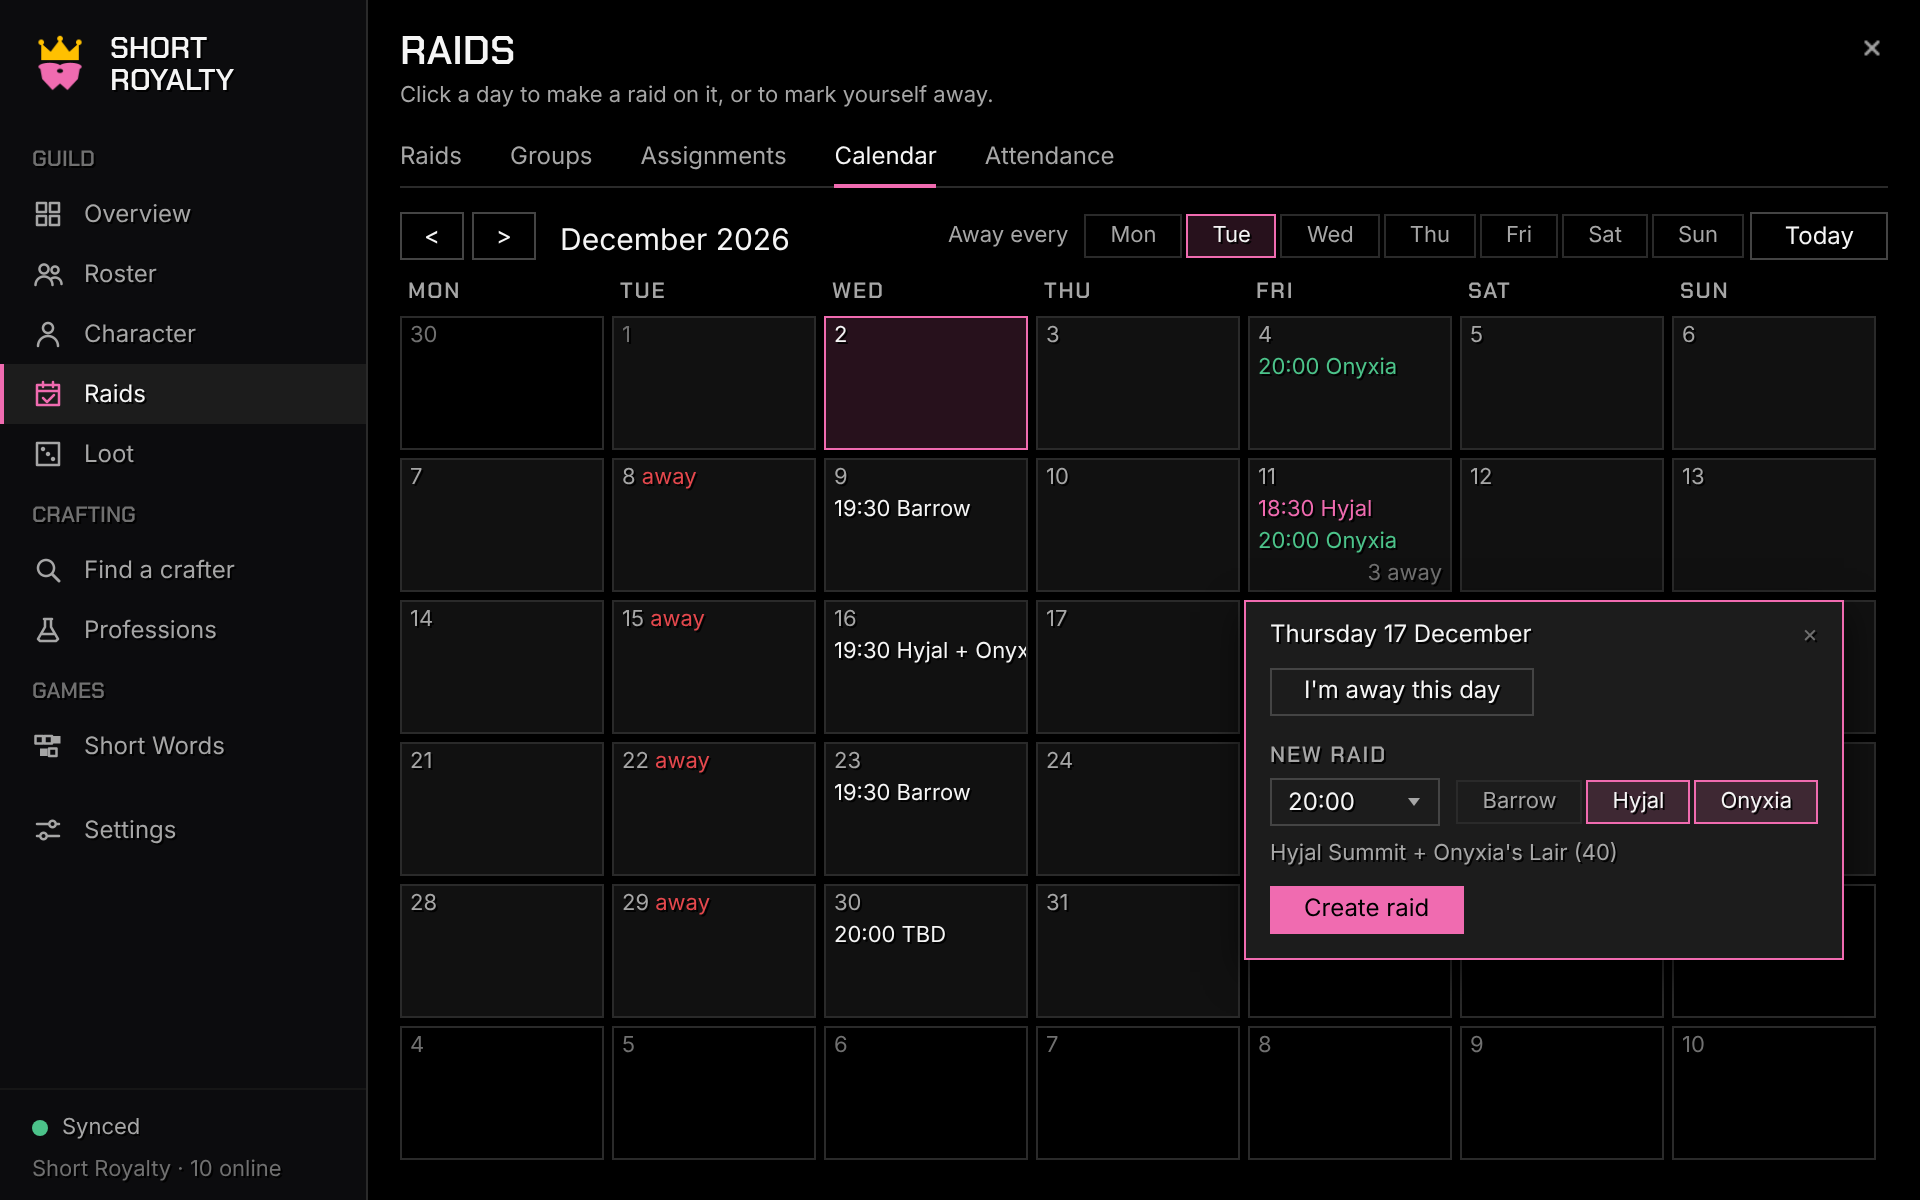
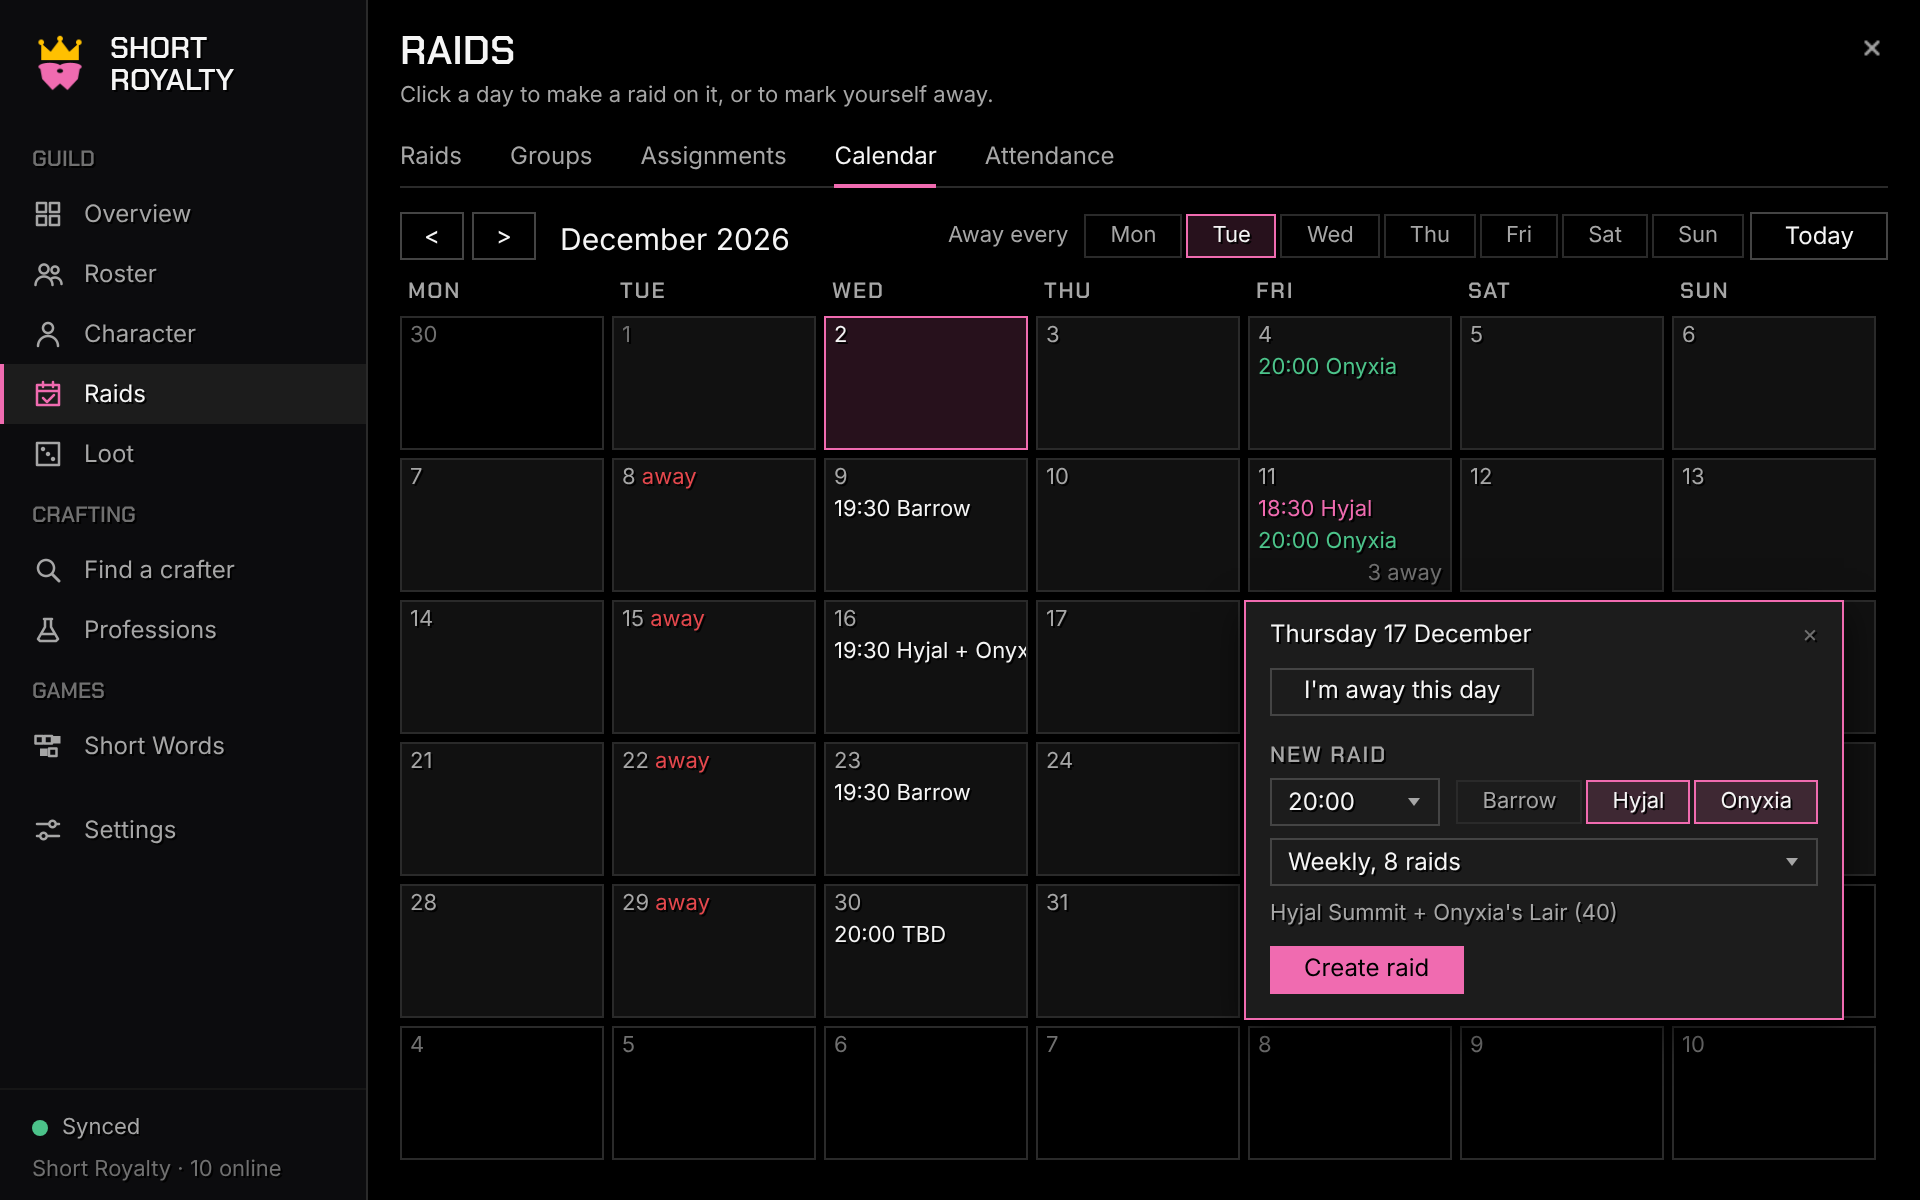
v0.16.0 (not released): weekly raid series from the Calendar, cancel the rest of a series, Reserve loot button
Claude-Session: https://claude.ai/code/session_01A7mubGdPYGXe41A4ZcDyrF

Changed region(s): [[0.625, 0.6783, 0.9688, 0.8633]]

diff --git a/preview/index.html b/preview/index.html
@@ -1010,6 +1010,7 @@ function raids() {
         <div style="margin-top:8px">${btn("I'm away this day")}</div>
         ${officer ? `<div class="display dim" style="font-size:11px;letter-spacing:.08em;margin-top:12px">NEW RAID</div>
         <div style="display:flex;gap:2px;align-items:center;margin-top:4px"><span class="menu" style="width:90px;margin-right:6px">${btn("20:00").replace("</span>", '<i class="arrow"></i></span>')}</span><span class="chip">Barrow</span><span class="chip on">Hyjal</span><span class="chip on">Onyxia</span></div>
+        <div style="margin-top:6px"><span class="menu" style="width:170px">${btn("Weekly, 8 raids").replace("</span>", '<i class="arrow"></i></span>')}</span></div>
         <div class="small dim" style="margin-top:6px">Hyjal Summit + Onyxia's Lair (40)</div>
         <div style="margin-top:8px">${btn("Create raid", "primary")}</div>` : ""}</div>`;
     }
@@ -1070,6 +1071,7 @@ function raids() {
     <div class="abs" style="left:${RX}px;top:${t0 + 48}px;display:flex;gap:8px">${btn("Sign up", "on")}${btn("Tentative")}${btn("Can't come")}<span style="width:4px"></span>
       <span class="menu" style="width:110px">${btn("Healer").replace("</span>", '<i class="arrow"></i></span>')}</span></div>
     <div class="abs" style="left:${RX}px;top:${t0 + 80}px">You: <span class="good">Signed up</span> as Healer  ·  <span class="good">You're in</span></div>
+    ${btn("Reserve loot  1/2", "primary", `style="position:absolute;right:0;top:${t0 + 76}px;width:140px;justify-content:center;height:22px"`)}
     <div class="abs dim small" style="left:${RX}px;top:${t0 + 100}px">In 18 / 40: Tanks 3  ·  Healers 5  ·  DPS 10  ·  Bench 3  ·  3 tentative  ·  2 can't come</div>
     <div class="abs dim small" style="left:${RX}px;right:0;top:${t0 + 120}px;line-height:1.4">3 tentative<span class="faint">  ·  </span><span class="bad">3 not attuned</span><span class="faint">  ·  </span><span class="spark">2 without the amulet in their bags</span><span class="faint">  ·  </span>Item level 52 to 75</div>` +
     list([{ key: "n", t: "Name", w: 118 }, { key: "s", t: "Status", w: 78 }, { key: "p", t: "Raid", w: 48 }, { key: "r", t: "Role", w: 56 }, { key: "sp", t: "Spec", w: 60 }, { key: "i", t: "ilvl", w: 32, r: 1 }, { key: "a", t: "Attuned", w: 52, r: 1 }], lineup,

diff --git a/CLAUDE.md b/CLAUDE.md
@@ -32,6 +32,20 @@ our own **Discord bot** (v0.12.0, `discord-bot/`, a Cloudflare Worker),
 bridged to the addon only by copy and paste.
 
 ## Start here (handover, 14 Nov 2026)
+- **v0.16.0 (built 22 Nov on the branch, NOT released; owner: "the ability
+  to create recurring raids would be very useful"; "after signing up and the
+  raid is no longer TBD" → go to the soft reserves):** events carry `sr`
+  (series id = the first raid's id; `ValidEvent` str ≤ 80; RB carries it).
+  `Board.WeeklyStarts(firstAt, weeks)` (same local time), `Board:Create(keys,
+  at, sr)` (sr true = itself), `Board:CreateSeries(keys, firstAt, weeks)`
+  (≤ `MAX_WEEKS` 12, room check first, all or nothing), `Board.SeriesFrom`,
+  `Board:CancelSeries`. Limits: `MAX_EVENTS` 60 **live** (not cancelled,
+  `Board.LiveCount`) + `MAX_STORED` 150 in all (v0.15.1 keeps 30 in all).
+  UI: day box `repeatMenu` (`RT.RepeatItems`, `settings.newRaid.weeks`),
+  `RT:CreateRaid` returns (first, why, count); ··· "Cancel this and the N
+  later in the series"; raid detail `reserveBtn` (signed y/t, not TBD, not
+  cancelled; "Reserve loot n/limit") → `LootTab:ShowRaid(id)`. Tests
+  `tests/v0160_series_spec.lua` + security case. TESTING 88–90.
 - **v0.15.1 (released 22 Nov on `main`, owner: "push to main"; owner 22 Nov: "there shouldn't really be a
   limit, let them make it whenever they want"):** `Board.AHEAD` 400 days
   (only clearly broken dates refused; older clients keep 60 and pick far

diff --git a/README.md b/README.md
@@ -147,6 +147,8 @@ people who were offline get them when they log in. `/sr raids` opens the page.
 
 <p align="center"><img src="docs/images/raids-calendar-day.png" alt="Raids calendar: the day box with I'm away this day and New raid (time and instances)" width="100%"></p>
 
+- **Weekly raids** (v0.16.0): the day box's **Repeat** menu makes the same raid every week, up to 12 at once; each can be changed or cancelled on its own, and the raid's ··· menu cancels the rest of the series.
+- **Reserve loot** (v0.16.0): once you've signed up and the raid's instances are picked, a button on the raid shows your reserves and opens the Loot page on it.
 - **Several instances a night, or to be decided** (v0.14.0): officers change a night's instances any time with the chips next to its title on the Raids page. A night with Hyjal and Onyxia shows "Hyjal + Onyxia (40)", has **groups per instance** on the Groups page (chips pick which), and one reserve list on the Loot page with both raids' loot.
 
 <p align="center"><img src="docs/images/raids-multi.png" alt="A raid night with Hyjal and Onyxia; officers' instance chips by the title" width="100%"></p>

diff --git a/CHANGELOG.md b/CHANGELOG.md
@@ -1,5 +1,19 @@
 # Changelog
 
+## v0.16.0 (not released yet): weekly raids, Reserve loot button
+
+- **Weekly raids:** the Calendar's day box has a **Repeat** menu: *Just this
+  day*, or *Weekly, 2–12 raids*. Create raid then makes them all at once,
+  same day of the week and same time (summer/winter time is handled). Each
+  raid can still be changed or cancelled on its own, and the raid's **···**
+  menu has **Cancel this and the N later in the series**.
+- Room for **60 raids** at a time (was 30); cancelled raids don't count.
+  Players still on v0.15.1 or older keep 30 and miss the rest until older
+  raids drop off.
+- **Reserve loot** button on the Raids page: once you've signed up (or are
+  tentative) and the raid's instances are picked, it shows your reserves
+  ("1/2") and opens the Loot page on that raid.
+
 ## v0.15.1 (22 Nov 2026): raids any time ahead
 
 - **Raids can be made any time ahead** (owner: "there shouldn't really be

diff --git a/TESTING.md b/TESTING.md
@@ -336,3 +336,14 @@ addon read.
 
 87. [ ] As an officer, make a raid four months ahead from the Calendar: it
     appears, and the line under Create raid reads in full.
+
+## v0.16.0 Weekly raids, Reserve loot button
+
+88. [ ] Officer: Calendar → a Monday → Repeat **Weekly, 6 raids**, Onyxia,
+    Create raid. "Made 6 raids … until …"; six Mondays on the calendar, same
+    time; other players see them all.
+89. [ ] Open the third one → ··· → **Cancel this and the 3 later in the
+    series**: those four disappear, the first two stay.
+90. [ ] Member: sign up for an Onyxia raid → **Reserve loot 0/1** appears
+    under the buttons; it opens Loot → Reserves on that raid. Not shown for
+    a raid still to be decided, or after Can't come.

diff --git a/docs/SECURITY-REVIEW.md b/docs/SECURITY-REVIEW.md
@@ -236,3 +236,11 @@ the Officers view and its tooltip.
   numbers, `pb` only true, sign-ups y/t/n). They have no `total`, so older
   versions refuse them instead of misreading them. Online status comes from
   each officer's own guild roster; merging keeps the best result per player.
+
+## Addendum (22 Nov 2026, v0.16.0 weekly raids)
+
+- Raid events may carry `sr` (a series id, a string of at most 80
+  characters). It only groups raids for "cancel the rest"; every raid is
+  still checked and merged on its own.
+- At most 60 raids that aren't cancelled and 150 in all are kept, so a flood
+  of raids (from an officer) can't grow saved data without bound.
